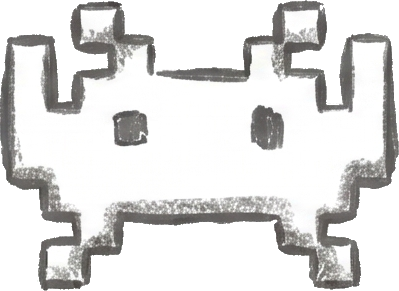
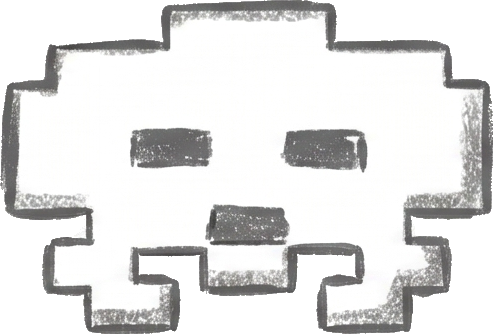
Add animated player and enemy sprites. Missing cleared animation

diff --git a/src/GameEngine.js b/src/GameEngine.js
@@ -33,22 +33,48 @@ export class GameEngine {
       this.playerSpriteLoaded = true;
     };
     
-    // Load enemy sprites
+    // Load attack sprite
+    this.attackSprite = new Image();
+    this.attackSprite.src = './src/assets/cat_attack.png';
+    this.attackSpriteLoaded = false;
+    this.attackSprite.onload = () => {
+      this.attackSpriteLoaded = true;
+    };
+    
+    // Load explosion sprite
+    this.explosionSprite = new Image();
+    this.explosionSprite.src = './src/assets/explode.png';
+    this.explosionSpriteLoaded = false;
+    this.explosionSprite.onload = () => {
+      this.explosionSpriteLoaded = true;
+    };
+    
+    this.attackTimer = 0;
+    
+    // Load enemy sprites (2 frames per enemy)
     this.enemySprites = [];
     this.enemySpritesLoaded = 0;
-    const totalEnemies = 6;
+    const totalEnemies = 3;
     for (let i = 1; i <= totalEnemies; i++) {
-      const enemyImg = new Image();
-      enemyImg.src = `./src/assets/enemy${i.toString().padStart(2, '0')}.png`;
-      enemyImg.onload = () => {
+      const enemyImg1 = new Image();
+      enemyImg1.src = `./src/assets/enemy${i.toString().padStart(2, '0')}.png`;
+      enemyImg1.onload = () => {
         this.enemySpritesLoaded++;
       };
-      this.enemySprites.push(enemyImg);
+      
+      const enemyImg2 = new Image();
+      const frame2Name = i === 1 ? 'enemy1_.png' : `enemy${i.toString().padStart(2, '0')}_.png`;
+      enemyImg2.src = `./src/assets/${frame2Name}`;
+      enemyImg2.onload = () => {
+        this.enemySpritesLoaded++;
+      };
+      
+      this.enemySprites.push([enemyImg1, enemyImg2]);
     }
     
     // Load background image
     this.backgroundImage = new Image();
-    this.backgroundImage.src = './src/assets/l2.png';
+    this.backgroundImage.src = './src/assets/l1.png';
     this.backgroundLoaded = false;
     this.backgroundImage.onload = () => {
       this.backgroundLoaded = true;
@@ -71,7 +97,7 @@ export class GameEngine {
   
   spawnWord() {
     const wordText = DOODLE_CLASSES[Math.floor(Math.random() * DOODLE_CLASSES.length)];
-    const enemyIndex = Math.floor(Math.random() * 6);
+    const enemyIndex = Math.floor(Math.random() * 3);
     
     // Spawn enemy from perimeter
     const side = Math.floor(Math.random() * 4);
@@ -94,18 +120,30 @@ export class GameEngine {
       text: wordText,
       x: startX,
       y: startY,
-      speed: 100 + Math.random() * 15,
+      speed: 30 + Math.random() * 15,
       enemySpriteIndex: enemyIndex,
-      isEnemy: true
+      isEnemy: true,
+      animationTimer: 0,
+      animationFrame: 0,
+      dying: false,
+      fadeTimer: 0
     });
   }
   
   tryDestroyWord(predictedLabel) {
-    const matchingWords = this.words.filter(w => w.text.toLowerCase() === predictedLabel.toLowerCase());
+    const matchingWords = this.words.filter(w => w.text.toLowerCase() === predictedLabel.toLowerCase() && !w.dying);
     if (matchingWords.length > 0) {
-      this.words = this.words.filter(w => w.text.toLowerCase() !== predictedLabel.toLowerCase());
+      // Mark enemies as dying
+      this.words.forEach(w => {
+        if (w.text.toLowerCase() === predictedLabel.toLowerCase() && !w.dying) {
+          w.dying = true;
+          w.fadeTimer = 0.5; // fade over 0.5 seconds
+        }
+      });
       this.score += 10;
       this.scoreEl.innerText = this.score;
+      // Trigger attack animation
+      this.attackTimer = 1;
       return true;
     }
     return false;
@@ -139,26 +177,46 @@ export class GameEngine {
     this.damageTimer = Math.max(0, this.damageTimer - dt);
     this.damageElapsed += dt;
     
+    // Update attack timer
+    this.attackTimer = Math.max(0, this.attackTimer - dt);
+    
     const cx = this.canvas.width / 2;
     const cy = this.canvas.height / 2;
     
     for (let i = this.words.length - 1; i >= 0; i--) {
       const w = this.words[i];
-      const dx = cx - w.x;
-      const dy = cy - w.y;
-      const dist = Math.sqrt(dx*dx + dy*dy);
       
-      if (dist < 120) { // reached player
-        this.words.splice(i, 1);
-        this.health -= 1;
-        this.healthEl.innerText = this.health;
-        this.damageTimer = 0.125;
-        this.damageElapsed = 0.125;
+      if (w.dying) {
+        // Update fade timer
+        w.fadeTimer -= dt;
+        if (w.fadeTimer <= 0) {
+          this.words.splice(i, 1);
+          continue;
+        }
       } else {
-        const nx = dx / dist;
-        const ny = dy / dist;
-        w.x += nx * w.speed * dt;
-        w.y += ny * w.speed * dt;
+        // Update enemy animation
+        w.animationTimer += dt;
+        if (w.animationTimer >= 1.0) {
+          w.animationTimer = 0;
+          w.animationFrame = 1 - w.animationFrame;
+        }
+        
+        const dx = cx - w.x;
+        const dy = cy - w.y;
+        const dist = Math.sqrt(dx*dx + dy*dy);
+        
+        if (dist < 100) { // reached player
+          this.words.splice(i, 1);
+          this.health -= 1;
+          this.healthEl.innerText = this.health;
+          this.damageTimer = 0.125;
+          this.damageElapsed = 0.125;
+        } else {
+          const nx = dx / dist;
+          const ny = dy / dist;
+          w.x += nx * w.speed * dt;
+          w.y += ny * w.speed * dt;
+        }
       }
     }
   }
@@ -180,14 +238,16 @@ export class GameEngine {
     const themeGalaxy = document.documentElement.classList.contains('theme-galaxy');
     
     // Draw Player (Center Base)
-    if (this.playerSpriteLoaded) {
+    const currentPlayerSprite = (this.attackTimer > 0 && this.attackSpriteLoaded) ? this.attackSprite : this.playerSprite;
+    const playerLoaded = (this.attackTimer > 0) ? this.attackSpriteLoaded : this.playerSpriteLoaded;
+    if (playerLoaded) {
       const spriteSize = 200; // Adjust size as needed
       if (this.damageTimer > 0) {
         const pulse = Math.sin(this.damageElapsed * 20) * 0.5 + 0.5;
         this.ctx.filter = `sepia(${0.5 + pulse * 0.5}) hue-rotate(${-25 - pulse * 25}deg) saturate(${3 + pulse * 2}) brightness(1)`;
       }
       this.ctx.drawImage(
-        this.playerSprite,
+        currentPlayerSprite,
         cx - spriteSize / 2,
         cy - spriteSize / 2,
         spriteSize,
@@ -219,42 +279,85 @@ export class GameEngine {
     }
     
     // Draw Words and Enemies
-    this.ctx.font = 'bold 12px Outfit, sans-serif';
+    this.ctx.font = 'bold 16px Outfit, sans-serif';
     this.ctx.fillStyle = '#fff';
     this.ctx.textAlign = 'center';
     this.ctx.textBaseline = 'middle';
     
     for (const w of this.words) {
       if (w.isEnemy) {
+        // Set alpha for dying enemies
+        if (w.dying) {
+          this.ctx.globalAlpha = w.fadeTimer / 0.5;
+        }
+        
         // Draw enemy sprite
-        const spriteSize = 100;
-        this.ctx.drawImage(
-          this.enemySprites[w.enemySpriteIndex],
-          w.x - spriteSize / 2,
-          w.y - spriteSize / 2,
-          spriteSize,
-          spriteSize
-        );
+        const spriteSize = 60;
+        if (w.dying) {
+          // Draw explosion sprite for dying enemies
+          if (this.explosionSpriteLoaded) {
+            this.ctx.drawImage(
+              this.explosionSprite,
+              w.x - spriteSize / 2,
+              w.y - spriteSize / 2,
+              spriteSize,
+              spriteSize
+            );
+          }
+        } else {
+          // Draw normal enemy sprite
+          const currentSprite = this.enemySprites[w.enemySpriteIndex][w.animationFrame];
+          if (currentSprite.complete && currentSprite.naturalWidth > 0) {
+            this.ctx.drawImage(
+              currentSprite,
+              w.x - spriteSize / 2,
+              w.y - spriteSize / 2,
+              spriteSize,
+              spriteSize
+            );
+          }
+        }
         
         // Draw word text above the sprite
-        this.ctx.font = 'bold 12px Outfit, sans-serif';
+        this.ctx.font = 'bold 16px Outfit, sans-serif';
         this.ctx.textAlign = 'center';
         this.ctx.textBaseline = 'middle';
+        
+        // Measure text for background box
+        const textMetrics = this.ctx.measureText(w.text);
+        const textWidth = textMetrics.width;
+        const fontSize = 16;
+        const padding = 4;
+        const boxWidth = textWidth + 2 * padding;
+        const boxHeight = fontSize + 2 * padding;
+        const textX = w.x;
+        const textY = w.y - spriteSize / 2 - 20;
+        const boxX = textX - boxWidth / 2;
+        const boxY = textY - boxHeight / 2;
+        
+        // Draw white background box
+        this.ctx.fillStyle = '#fff';
+        this.ctx.fillRect(boxX, boxY, boxWidth, boxHeight);
+        
+        // Draw black text
+        this.ctx.fillStyle = '#000';
         if (themeGalaxy) {
-          this.ctx.fillStyle = '#fff';
           this.ctx.shadowBlur = 10;
           this.ctx.shadowColor = accentColor;
         } else {
-          this.ctx.fillStyle = textColor;
           this.ctx.shadowBlur = 0;
         }
-        this.ctx.fillText(w.text, w.x, w.y - spriteSize / 2 - 20);
+        this.ctx.fillText(w.text, textX, textY);
+        
+        // Reset alpha
+        this.ctx.globalAlpha = 1;
       }
     }
     
     // Reset filter and shadow for next frame
     this.ctx.filter = 'none';
     this.ctx.shadowBlur = 0;
+    this.ctx.globalAlpha = 1;
   }
   
   drawGameOver() {
